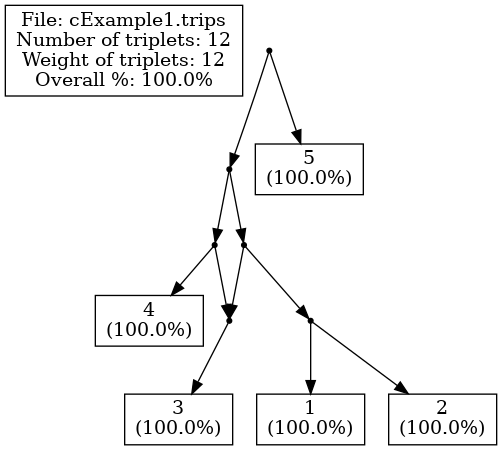
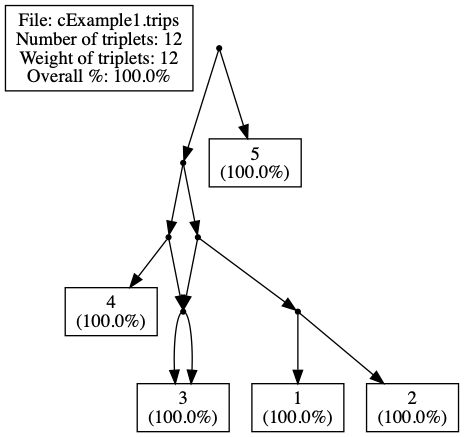
Added notes for --nopostprocess option (Lev1Than) but doesn't work

Changed region(s): [[0.0, 0.0, 0.9957, 1.0], [0.5431, 0.6247, 0.5733, 0.6545]]

diff --git a/ParsingTxt/ServerAction.py b/ParsingTxt/ServerAction.py
@@ -59,19 +59,24 @@ def changeRoot(flag, newRoot):
 
 # julia change-root.jl test.net outgroup 3
 
+"""There is a problem in the following method. I tried the same commmand via the terminal and that generates a different
+dot file as compared the same command via Python.
+"""
 def tripletsToDot(tripletsFName):
-    cmd = 'java -jar Lev1athan.jar ' + tripletsFName + ' > cExample1.dot'
+    cmd = 'java -jar Lev1athan.jar ' + tripletsFName + ' > cExample1.dot --nopostprocess'
+    # cmd = 'java -jar Lev1athan.jar cExample1.trips > cExample1.dot --nopostprocess'
     os.system(cmd)
 
 
 if __name__ == '__main__':
     print("Hello")
     tripletsToDot('cExample1.trips')
+    convertDotToPNG('cExample1.dot')
     # removeLeaves('1\n4')
     convertDotToPNGJulia('cExample1.dot')
     print("Hello")
 
-    changeRoot('outgroup', '3')
+    # changeRoot('outgroup', '3')
 
 #  1) Return Parenthetical fiel and return the image
 # Download image or text file

diff --git a/ParsingTxt/Lev1Than/TripletsToDot.py b/ParsingTxt/Lev1Than/TripletsToDot.py
@@ -1,0 +1,32 @@
+import os
+
+import pydot
+
+
+def returnParentheticalFormat(fileName):
+    parentheticalFormat = ''
+    for line in reversed(list(open(fileName))):
+        if line.__contains__('eNewick'):
+            parentheticalFormat = line[28:]
+            # print(parentheticalFormat)
+            # print(line.rstrip())
+    return parentheticalFormat.rstrip()
+
+
+"""Tested with the nopostprocess option even with the direct Heuristic files but doesn't seem to work"""
+
+
+def tripletsToDot(tripletsFName):
+    # cmd = 'java -jar Lev1athan.jar ' + tripletsFName + ' > cExample1.dot --nopostprocess'
+    cmd = 'java Heuristic  cExample1.trips > example.out --nopostprocess'
+    os.system(cmd)
+
+
+def convertDotToPNG(fileName):
+    (graph,) = pydot.graph_from_dot_file(fileName)
+    graph.write_png('cExample1.png')
+
+
+if __name__ == '__main__':
+    tripletsToDot('cExample1.trips')
+    convertDotToPNG('cExample1.dot')
